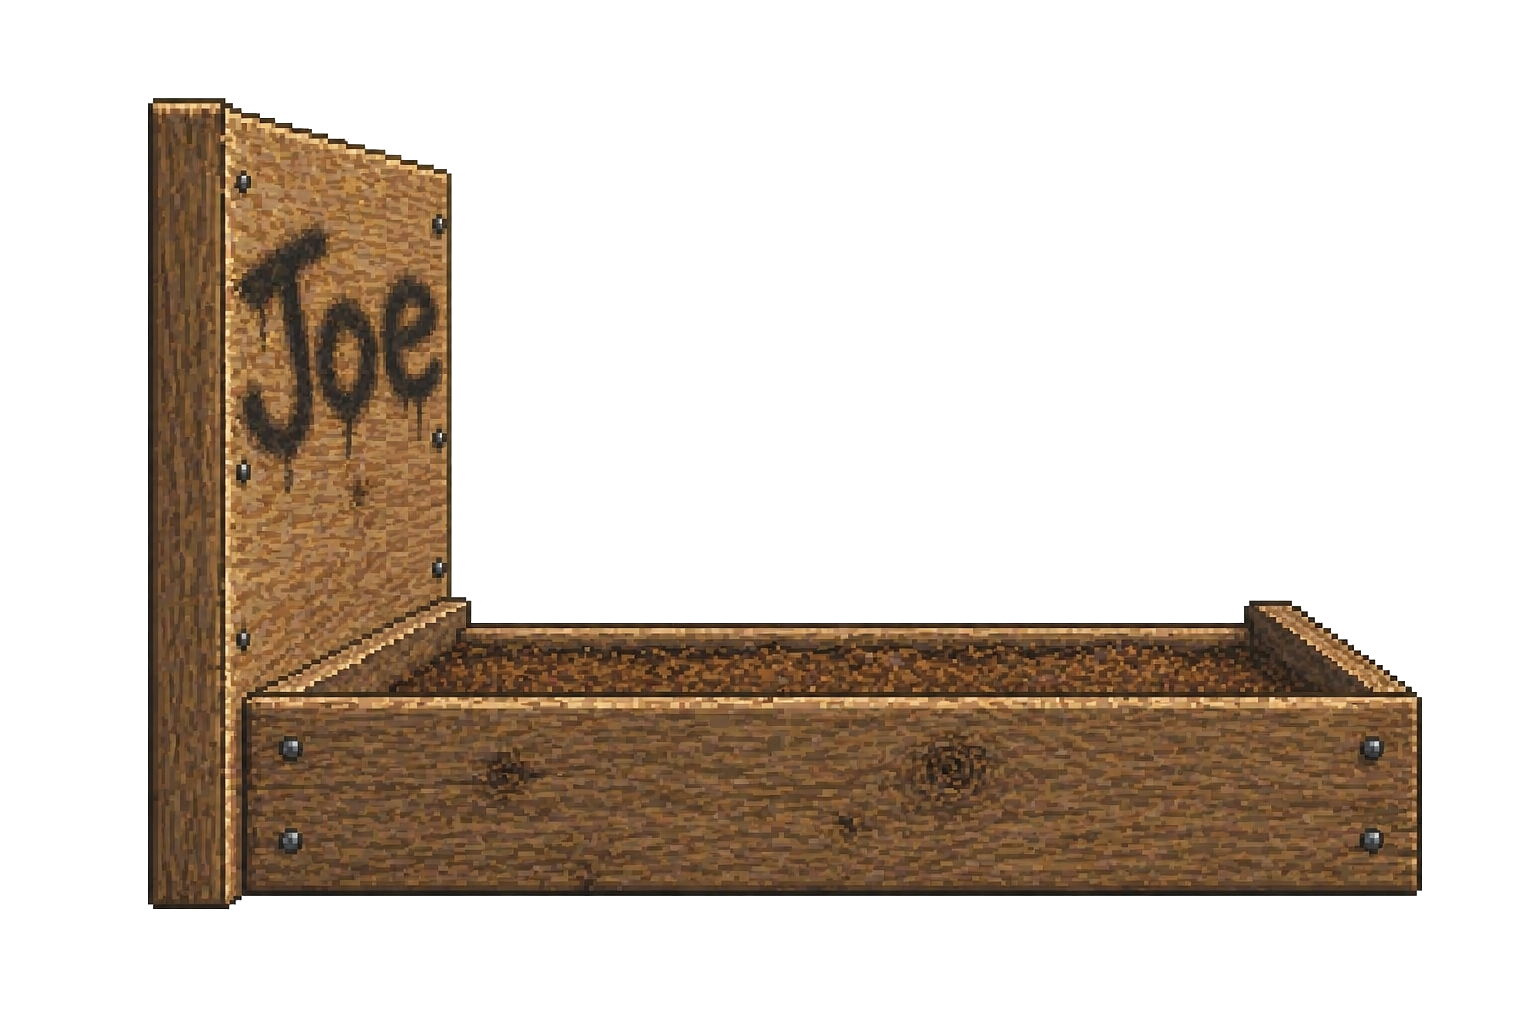
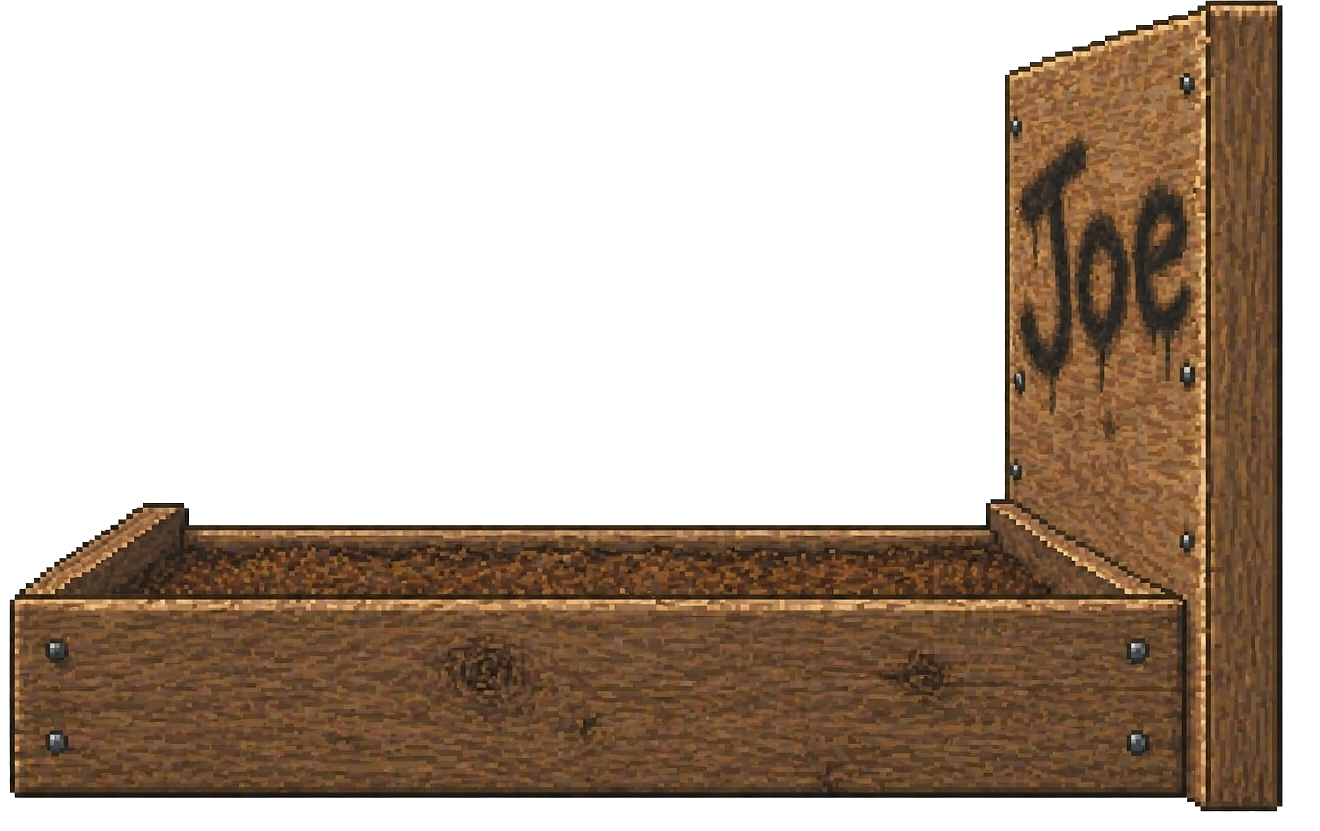
update assets, docs, prompts

diff --git a/plans/archive/20-shovel-asset-integration.md b/plans/archive/20-shovel-asset-integration.md
@@ -1,0 +1,43 @@
+# Shovel Asset Integration
+
+## 1. GOAL
+Replace the placeholder shovel (two `fillRect` shapes inside the rotated transform) with the `assets/shovel.png` image, preserving the existing rotation behavior and pivot point at `(throw_.shovelX, throw_.shovelY)`.
+
+## 2. CHANGE DESCRIPTION
+- Load `assets/shovel.png` once at startup using the existing image-loader pattern.
+- In the shovel draw block (currently inside the `STATE.FLYING || STATE.RESETTING` branch of `draw()`), replace the two `fillRect` calls with a single `drawImage` call drawn inside the existing `ctx.translate` + `ctx.rotate` transform.
+- Fall back to the existing placeholder shapes if the image is not yet loaded.
+
+## 3. EXPECTED EFFECT
+- Shovel renders as the artwork during flight and the brief reset pause.
+- Rotation continues to use `throw_.angle` (driven by `SHOVEL_ROT_RATE * dt`) — no change.
+- Position, collision, bounce, and landing detection are unchanged.
+
+## 4. RENDERING INTEGRATION (positioning + rotation anchor)
+- Pivot: `(throw_.shovelX, throw_.shovelY)` via `ctx.translate(...)`, matching current code.
+- Rotation: `ctx.rotate(throw_.angle)`, matching current code.
+- Constant: `const SHOVEL_RENDER_W = 40;` (px). Height derived from image aspect: `dH = SHOVEL_RENDER_W * (shovelImg.naturalHeight / shovelImg.naturalWidth)`.
+- Draw call (inside the rotated transform, centered on pivot):
+  - `ctx.drawImage(shovelImg, -SHOVEL_RENDER_W / 2, -dH / 2, SHOVEL_RENDER_W, dH);`
+- Asset orientation assumption: `shovel.png` is authored with the blade pointing right (matching the existing placeholder where the blade rectangle is on the +x side). If the source asset is oriented differently, only the offsets in the `drawImage` call change — physics and rotation math stay identical.
+
+## 5. IMPLEMENTATION STEPS (max 3–4)
+1. Near the existing image loaders, add:
+   - `const shovelImg = new Image();`
+   - `let shovelReady = false;`
+   - `shovelImg.onload = () => { shovelReady = true; };`
+   - `shovelImg.src = 'assets/shovel.png';`
+2. Add `const SHOVEL_RENDER_W = 40;` near the other render-size constants (e.g., next to `CHARACTER_RENDER_H`).
+3. In `draw()`, inside the existing `ctx.save() / translate / rotate ... ctx.restore()` block for the shovel, replace the two `fillRect` calls with:
+   - If `shovelReady`: compute `dH = SHOVEL_RENDER_W * shovelImg.naturalHeight / shovelImg.naturalWidth`, then `ctx.drawImage(shovelImg, -SHOVEL_RENDER_W / 2, -dH / 2, SHOVEL_RENDER_W, dH);`.
+   - Else: keep the existing two placeholder `fillRect` calls as fallback.
+
+## 6. ROLLBACK STRATEGY
+Revert the commit. Change is contained to one new image loader, one new size constant, and one replaced block inside the shovel transform in `draw()`.
+
+## 7. NON-GOALS
+- No change to `SHOVEL_ROT_RATE`, `throw_.angle` accumulation, gravity, launch math, or bounce.
+- No change to wall collision, landing detection, or scoring.
+- No multi-frame animation, motion trail, or shadow.
+- No per-character shovel variants.
+- No changes to player, pit, ground, background, meter, or HUD.

diff --git a/plans/archive/19-pit-asset-integration.md b/plans/archive/19-pit-asset-integration.md
@@ -1,0 +1,45 @@
+# Pit Asset Integration
+
+## 1. GOAL
+Replace the placeholder pit rectangle (dark fill + gold stroke at `groundY`) with the `assets/pit.png` image, aligned exactly to the existing pit boundaries (`pitLeft`, `pitRight`, `groundY`).
+
+## 2. CHANGE DESCRIPTION
+- Load `assets/pit.png` once at startup (mirroring the existing image-loader pattern).
+- In `draw()`, replace the current pit `fillRect`/`strokeRect` block with a single `drawImage` call sized to the pit's collision rect.
+- If the image is not yet loaded, fall back to the current placeholder fill so collision boundaries remain visible.
+
+## 3. EXPECTED EFFECT
+- Pit is rendered as the artwork, occupying the same screen region the placeholder occupied.
+- No change to `pitLeft`, `pitRight`, `pitCenterX`, `groundY`, scoring zones, collision, or physics.
+- Visuals scale with the canvas because pit width is already a fraction of `canvas.width`.
+
+## 4. RENDERING STRATEGY (positioning + scaling)
+- Position: top-left at `(pitLeft, groundY)`.
+- Width: `pitRight - pitLeft` (matches the scoring boundary exactly).
+- Height: preserve the image aspect ratio relative to the drawn width:
+  - `dW = pitRight - pitLeft`
+  - `dH = dW * (pitImg.naturalHeight / pitImg.naturalWidth)`
+- Draw with `ctx.drawImage(pitImg, pitLeft, groundY, dW, dH)`.
+- Drawn after the ground fill/line and before the wall, player, and shovel — same z-order slot as the current placeholder.
+- Recomputed every frame, so it tracks `updateLayout()` and `updateDifficulty()` on resize and difficulty changes automatically.
+
+## 5. IMPLEMENTATION STEPS (max 3–4)
+1. Near the existing image loaders (around the `characterImg` block), add:
+   - `const pitImg = new Image();`
+   - `let pitReady = false;`
+   - `pitImg.onload = () => { pitReady = true; };`
+   - `pitImg.src = 'assets/pit.png';`
+2. In `draw()`, locate the pit block (`// Pit zone` — the `fillRect` + `strokeRect` at lines ~394–399). Replace it with:
+   - If `pitReady`: compute `dW = pitRight - pitLeft`, `dH = dW * pitImg.naturalHeight / pitImg.naturalWidth`, then `ctx.drawImage(pitImg, pitLeft, groundY, dW, dH)`.
+   - Else: keep the existing placeholder `fillRect`/`strokeRect` as fallback.
+3. Leave all other draw operations, constants, and state untouched.
+
+## 6. ROLLBACK STRATEGY
+Revert the commit. Change is contained to one new image loader and one replaced block inside `draw()`.
+
+## 7. NON-GOALS
+- No change to `PIT_WIDTH`, `pitCenterX`, scoring zone math, sweet-spot logic, or wall placement.
+- No change to landing detection or `inPit` test.
+- No animation, lighting, particle, or shadow effects.
+- No new asset preloader or loading screen.
+- No changes to ground rendering, background, player, shovel, meter, or HUD.

diff --git a/docs/mvp-feedback.md b/docs/mvp-feedback.md
@@ -1,3 +1,9 @@
+## replace shovel with asset image
+- replace the current shovel with the image at asstes/shovel.png
+
+## replace the pit with asset image
+- replace the current pit with the image at assets/pit.png
+
 
 ## character selection
 - replace the current landing / start page with a tiled character selector
